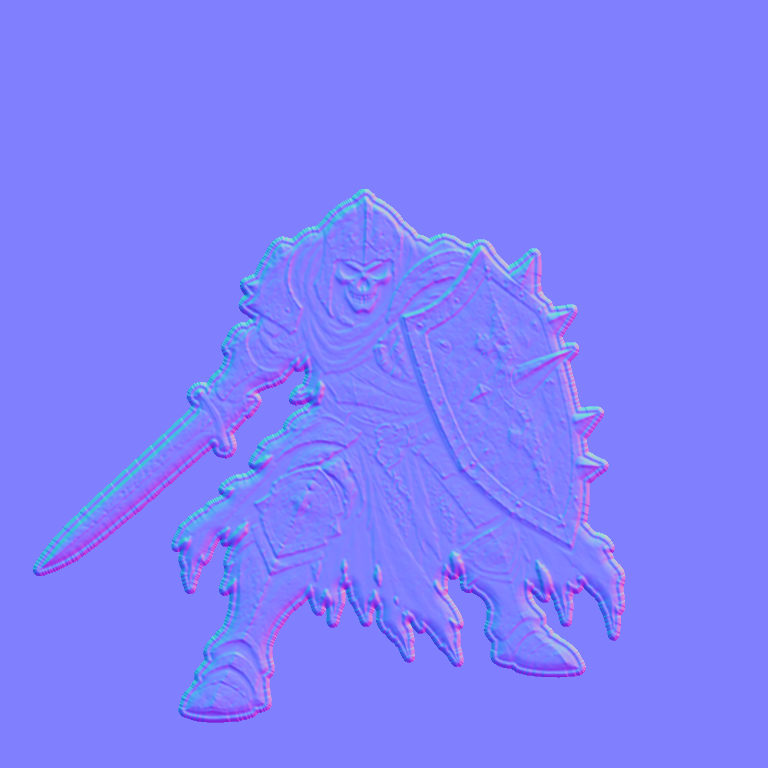
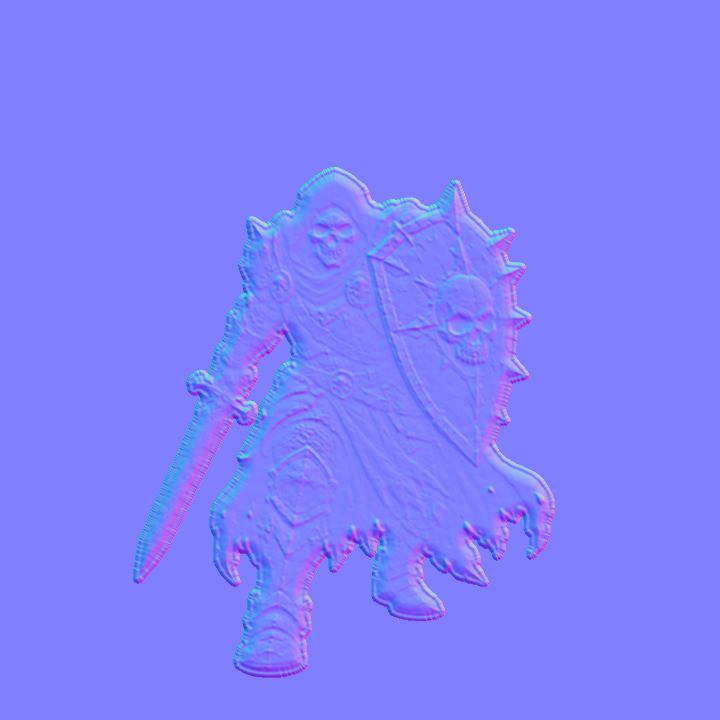
Veilleur Os : nouvelle planche (cinq poses en une rangée), outil de découpe pour planches larges

Changed region(s): [[0.0306, 0.2139, 0.825, 0.9472], [0.6111, 0.6722, 0.6417, 0.7028]]

diff --git a/tools/make_monster.py b/tools/make_monster.py
@@ -5,7 +5,7 @@ Usage : python3 tools/make_monster.py <id> planche.png [--sans-liseré]
     + une carte de normales par pose (<id>_n.webp, <id>_attack_n.webp…) pour l'éclairage en relief (import : compress/normal_map=1, mipmaps).
 
 Format de la planche (fond transparent, un liseré blanc « autocollant » autour de chaque pose) :
-  en haut, de gauche à droite : Attente, Attaque, Impact (coup reçu) ; en bas : Attaque alternative, Mort.
+  3 poses en haut puis 2 en bas, OU une seule rangée de 5 (détectée toute seule), toujours dans l'ordre Attente, Attaque, Impact (coup reçu), Attaque alternative, Mort.
 Traitements (indispensables pour que le sprite ne SCINTILLE pas en 3D) :
   1. découpe des cinq poses (composantes connexes de l'alpha) ;
   2. le liseré blanc est GARDÉ par défaut (choix de l'auteur) ; avec --sans-liseré : suppression du liseré blanc : pixels clairs reliés à l'extérieur (le trait noir de l'illustration reste), puis bord
@@ -45,11 +45,14 @@ def split(sheet):
     idx = ndi.distance_transform_edt(clab == 0, return_distances=False, return_indices=True)
     lab = np.where(al > 0.08, clab[idx[0], idx[1]], 0)
     cm = {i: ndi.center_of_mass(lab == i) for i in keep}
-    by_y = sorted(keep, key=lambda i: cm[i][0])
-    top = sorted(by_y[:3], key=lambda i: cm[i][1])
-    bot = sorted(by_y[3:], key=lambda i: cm[i][1])
+    one_row = al.shape[1] > 2.2 * al.shape[0]                   # planche large (cinq poses côte à côte) : de gauche à droite
+    if one_row:
+        order = sorted(keep, key=lambda i: cm[i][1])
+    else:                                                       # 3 poses en haut, 2 en bas
+        by_y = sorted(keep, key=lambda i: cm[i][0])
+        order = sorted(by_y[:3], key=lambda i: cm[i][1]) + sorted(by_y[3:], key=lambda i: cm[i][1])
     poses = []
-    for i in top + bot:
+    for i in order:
         mine = lab == i                                           # pixels de CETTE pose seulement (liseré compris)
         solid = (al > 0.5) & mine
         ys, xs = np.where(mine)

diff --git a/docs/TECHNIQUE.md b/docs/TECHNIQUE.md
@@ -522,9 +522,10 @@ Après TripoSR, `Converter._bake_command` copie `res://tools_py/bake_texture.py`
 - Anti-scintillement des monstres Atlas Noir : les cinq poses passent par `python3 tools/make_monster.py <id> planche.png` (découpe, liseré blanc « autocollant » conservé, couleurs prolongées sous l'alpha, pieds alignés, aucun flou) ; mipmaps activés dans les `.webp.import` ; `EntityLayer` pose la méta `atlas` (présence de `<id>_attack.webp`) et réduit la respiration à 30 %. `tools/shot_shimmer.gd` mesure la différence moyenne entre images consécutives (de 0,0028 à 0,0018 sur le Veilleur Os). Règle valable pour tous les futurs monstres.
 - Fossoyeur sans visage (`mon_fossoyeur`) : même procédure (make_monster.py, catégorie « Monstres Atlas Noir », `TIER2`, `Resist.FAMILY`, effet « affaiblissement » dans `MonsterEffects.FAMILY`, hauteur `fossoyeur` 1,75 car sa silhouette occupe moins de l'image). Ajouté à la Crypte Profonde (case 7,3) pour l'essai.
 - Monstres Atlas Noir, rendu : images à la résolution d'origine (1536 px, webp sans perte, plus de réduction ni de flou : `make_monster.py`) ; sprites ÉCLAIRÉS (`EntityLayer._lit_material` : ombrage par pixel, rugosité 1, léger auto-éclairage 0,22) donc sensibles à la lumière d'ambiance du niveau, à la torche du groupe et aux lampes ; barre de vie fixe : `CombatStage._pose_envelope` prend le sommet le plus haut de toutes les poses debout (repos, attaques, coup) et la barre s'y pose, sans bouger d'une pose à l'autre.
-- Planches de monstres (format de livraison depuis le 2026-10-31) : une seule image RGBA à fond transparent, un liseré blanc autour de chaque pose, dans l'ordre (haut gauche → bas droite) Attente, Attaque, Impact, Attaque alternative, Mort. `tools/make_monster.py <id> planche.png` découpe les cinq poses (noyaux érodés, chaque pixel rattaché au noyau le plus proche, donc deux liserés qui se touchent ne fusionnent pas), GARDE le liseré blanc des planches (choix de l'auteur ; l'option `--sans-liseré` retire le liseré relié au vide et ses restes piégés dans les pointes de tissu), écarte la poussière, puis recompose les poses à la même échelle dans un carré (pieds sur 94 % de la hauteur, centre de masse de l'attente au milieu), sans agrandissement ni flou : la résolution est celle de la planche (≈ 600 px de haut pour un monstre debout, carré d'environ 770 px). La hauteur affichée se règle par la ligne du monstre dans `EntityLayer.MON_HEIGHTS` (le script affiche la part du carré occupée par la pose d'attente ; ligne = ancienne ligne × ancienne part / nouvelle part : `veilleur` 1,64, `fossoyeur` 1,71). Veilleur Os et Fossoyeur sans visage ont été réimportés ainsi à la place des premières versions.
+- Planches de monstres (format de livraison depuis le 2026-10-31) : une seule image RGBA à fond transparent, un liseré blanc autour de chaque pose, dans l'ordre (haut gauche → bas droite) Attente, Attaque, Impact, Attaque alternative, Mort. `tools/make_monster.py <id> planche.png` découpe les cinq poses (noyaux érodés, chaque pixel rattaché au noyau le plus proche, donc deux liserés qui se touchent ne fusionnent pas), GARDE le liseré blanc des planches (choix de l'auteur ; l'option `--sans-liseré` retire le liseré relié au vide et ses restes piégés dans les pointes de tissu), écarte la poussière, puis recompose les poses à la même échelle dans un carré (pieds sur 94 % de la hauteur, centre de masse de l'attente au milieu), sans agrandissement ni flou : la résolution est celle de la planche (≈ 600 px de haut pour un monstre debout, carré d'environ 770 px). La hauteur affichée se règle par la ligne du monstre dans `EntityLayer.MON_HEIGHTS` (le script affiche la part du carré occupée par la pose d'attente ; ligne = ancienne ligne × ancienne part / nouvelle part : `veilleur` 1,77 (nouvelle planche), `fossoyeur` 1,71). Veilleur Os et Fossoyeur sans visage ont été réimportés ainsi à la place des premières versions.
 - Veuve des Cryptes (`mon_veuve`) et Porte-Cercueil (`mon_porte_cercueil`) : intégrés comme le Fossoyeur, depuis leurs planches (liseré blanc conservé). Hauteurs `MON_HEIGHTS` : `veuve` 1,74, `cercueil` 1,5 (carrés de 736 et 784 px). `DungeonGenerator.TIER2`, catégorie d'icônes « Monstres Atlas Noir », `Resist.FAMILY` (veuve : ombre, nature, faible au sacré et au feu ; porte-cercueil : ombre, physique, faible au sacré et au feu), `MonsterEffects.FAMILY` (veuve : poison 40 % / 3 tours ; porte-cercueil : étourdissement 20 % / 1 tour). Donjon d'origine : `cercueil1` en (10,1) à la Crypte Profonde, `veuve1` en (7,3) au Sanctuaire Interdit.
 - Éclairage des monstres Atlas Noir (2026-10-31) : en plus du matériau éclairé, `make_monster.py` écrit une carte de normales par pose (`<id>[_attack|_attack2|_hit|_dead]_n.webp`, relief tiré de la luminance du dessin + silhouette arrondie sur 16 px ; imports `compress/normal_map=1`, mipmaps, sans perte). `EntityLayer._lit_material` la charge si elle existe (`normal_texture`) et ajoute un liseré de lumière (`rim` 0,25) : la torche et les lampes sculptent le monstre au lieu de l'éclairer à plat. Mort : la pose « à terre » reprenait l'auto-éclairage (`emission_texture`) de la pose debout, d'où un voile clair sur le corps ; elle prend maintenant les textures de la pose à terre, et l'auto-éclairage et le liseré s'éteignent avec le fondu. `tools/shot_veilleur.gd` capture aussi une image à mi-fondu (`_fade.png`).
 - File d'initiative et monstres Atlas Noir : le monstre entier y était illisible (une silhouette de 50 px). `EntityLayer.BUSTS` (id → centre x, centre y, demi-côté, en fractions de l'image d'attente) donne le cadrage du visage ; `EntityLayer.bust_texture` découpe cette zone, la réduit à 192 px (Lanczos) avec mipmaps et la met en cache ; `QueueBar` l'affiche en médaillon rond à anneau rouge (les héros ont l'anneau doré), filtrage `LINEAR_WITH_MIPMAPS_ANISOTROPIC` pour éviter le crépitement. **À renseigner pour chaque nouveau monstre** (sans entrée, l'ancienne vignette plein corps est utilisée). Cadrages actuels : Veilleur Os, Fossoyeur, Veuve des Cryptes, Porte-Cercueil.
 - Donjon de test « Atlas Noir » : onglet Tests du panneau super admin, section « Test local » (bouton « Test — Atlas Noir »). Partie aléatoire locale de 4 niveaux 15×13, difficulté normale, hors ligne, hors classement, sans essai consommé, titre « Test Atlas Noir ». `DungeonGenerator.atlas_only` fait que `pick_tiered_monster` ne tire que dans `atlas_pool()`, c'est-à-dire la catégorie d'icônes « Monstres Atlas Noir » de `ICON_CATALOG` : tout nouveau monstre ajouté à cette catégorie y entre sans autre réglage. Les boss restent les anciens tant qu'aucun boss Atlas Noir n'existe. Vérification automatique : `godot --headless --path . res://tools/check_atlas_test.tscn` (aucun monstre hors catégorie sur un donjon généré).
 - Cascades animées de l'accueil : `HomeScreen.WATERFALL_SHADER` (canvas_item additif) posé sur l'image de fond avec le même cadrage « cover » que les flammes (`_make_waterfalls`, `_layout_flames`). Filets d'eau = bruit de valeur étiré en hauteur, trois couches à vitesses différentes qui descendent (vitesses en pixels du fond par seconde), léger scintillement. Le masque `assets/home/waterfall_mask.png` (1920×1080) est produit par `tools/make_waterfall_mask.py` : polygones tracés à la main sur `home_bg.png` (grande chute, petite chute, filets, brume du fond) multipliés par la clarté locale de l'image, donc seule l'eau déjà claire s'anime. Si le fond change, retracer les polygones du script. `tools/shot_home.gd` prend maintenant deux images à 0,6 s d'écart pour vérifier le mouvement.
+- Veilleur Os, 2e version (2026-10-31) : planche d'une seule rangée de cinq poses (2172×724) qui remplace la première, importée sans réduction ni flou (pose d'attente ≈ 535 px de haut, carré de 720 px ; la pose d'attaque épée levée fixe la taille du carré). `make_monster.py` détecte seul une planche large (plus de 2,2 fois plus large que haute) et ordonne les poses de gauche à droite. Ligne `veilleur` de `MON_HEIGHTS` ramenée à 1,77 et cadrage du buste `[0.50, 0.29, 0.12]`.
